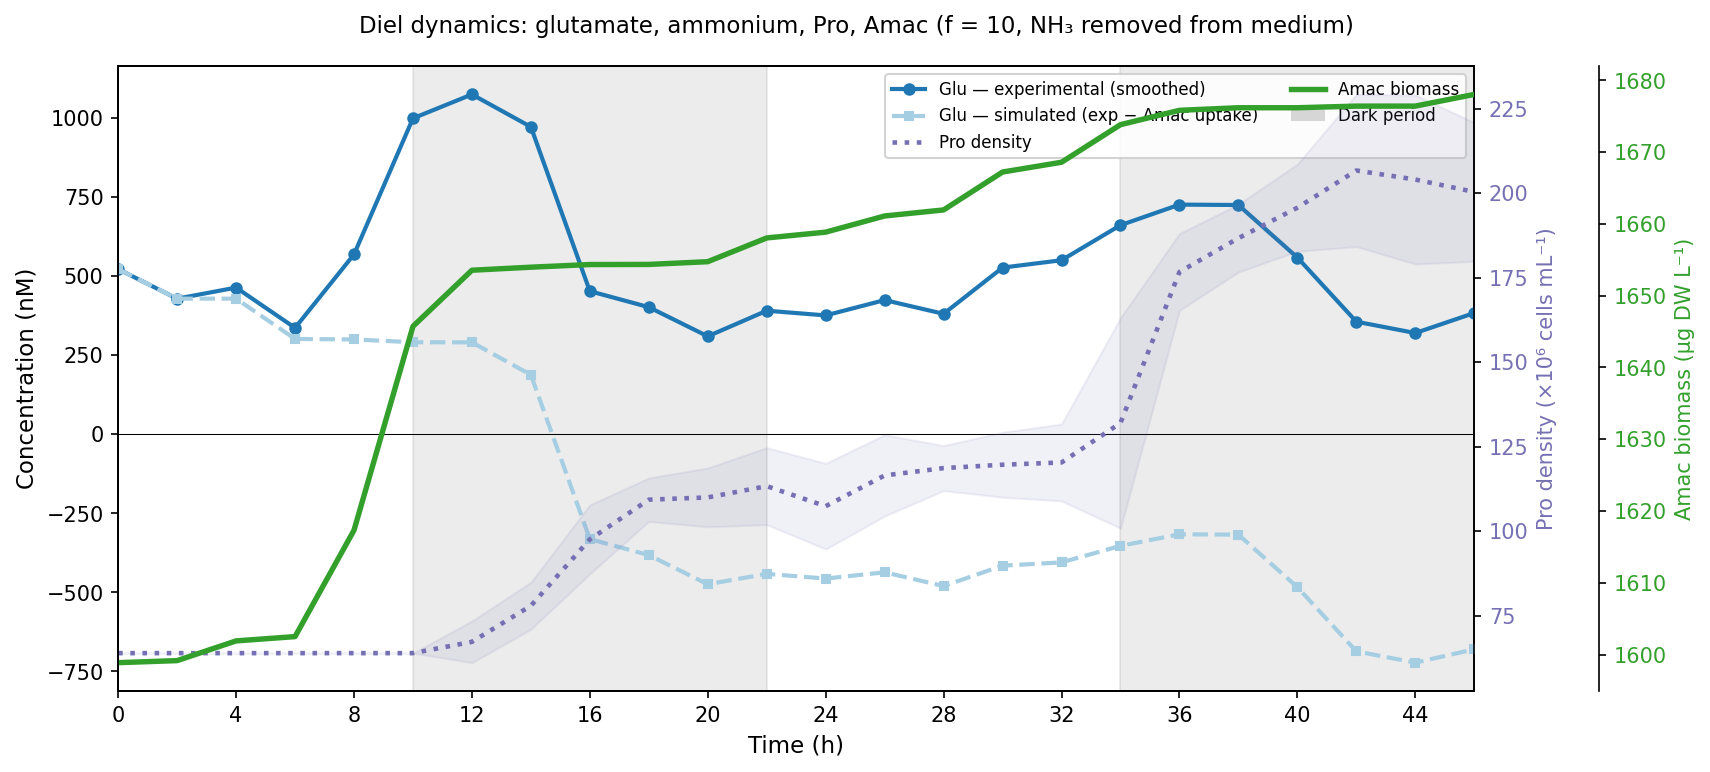
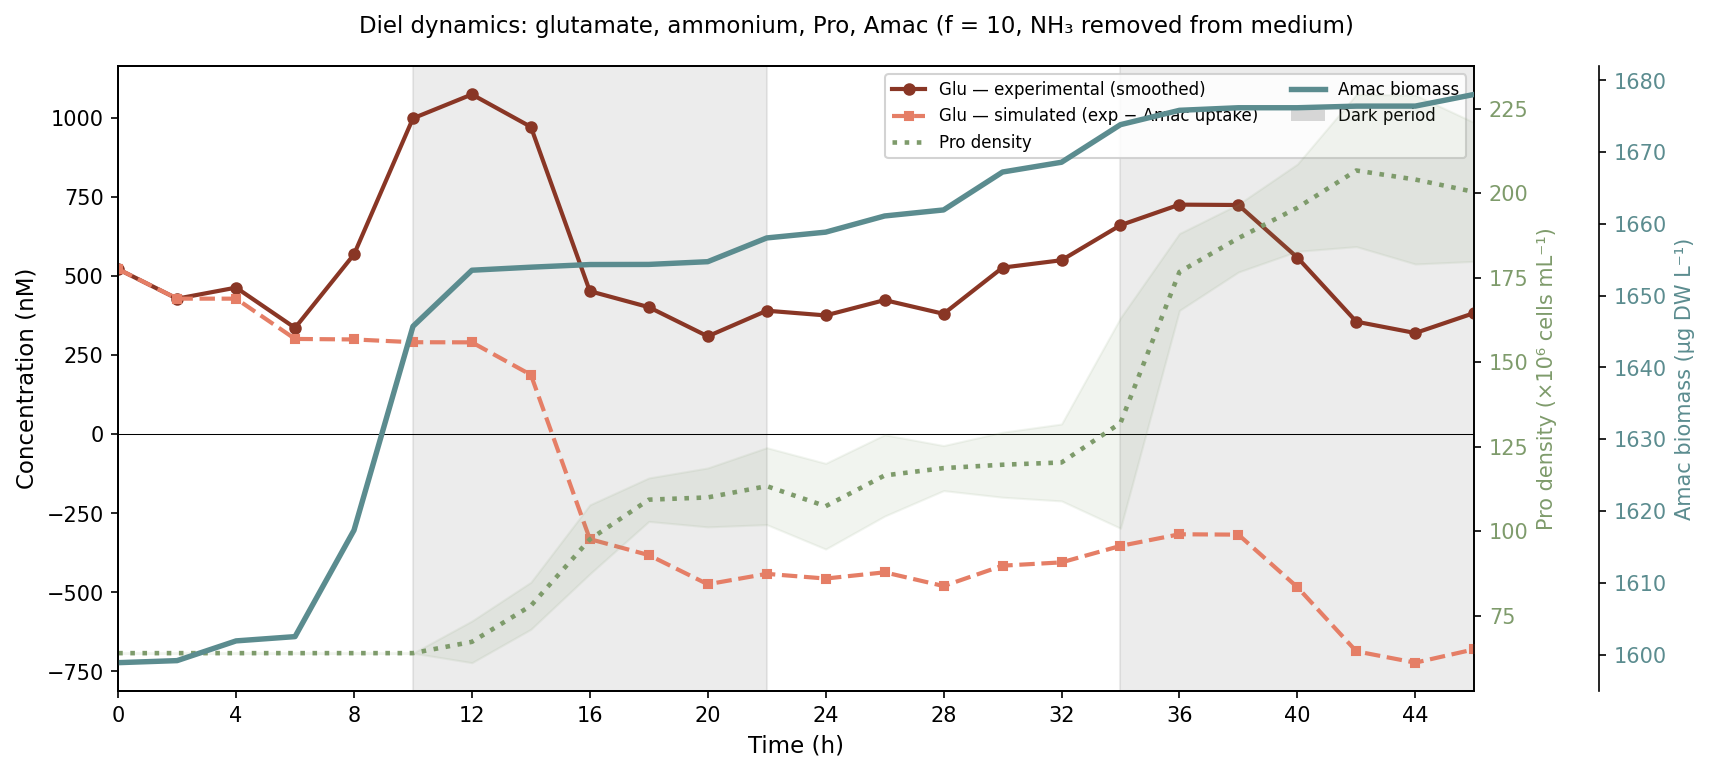
feat: use plot_styles colors

diff --git a/simulations/pro_exometabolites/plot_integrated_dynamics.py b/simulations/pro_exometabolites/plot_integrated_dynamics.py
@@ -33,6 +33,7 @@ secretion). Starts from 0 nM (BASAL has NH3 removed in the simulation).
 """
 
 from pathlib import Path
+import sys
 
 import matplotlib.pyplot as plt
 import numpy as np
@@ -41,10 +42,15 @@ import pandas as pd
 # ── Paths and parameters ────────────────────────────────────────────────────────
 
 SCRIPT_DIR = Path(__file__).parent
+REPO_ROOT = SCRIPT_DIR.parents[1]
 RESULTS_DIR = SCRIPT_DIR / "results"
 DATA_DIR = SCRIPT_DIR / "data"
 FIG_DIR = SCRIPT_DIR / "figs"
 FIG_DIR.mkdir(exist_ok=True)
+
+# Import plot_styles.py from the root of the repo
+sys.path.append(str(REPO_ROOT))
+from plot_styles import summer_colors
 
 F_PLOT = 10.0
 ALT_DW_G = 2.5e-13  # g/cell
@@ -167,11 +173,11 @@ def main() -> None:
     shade_dark(ax1)
     ax1.axhline(0, color="black", lw=0.5, zorder=1)
 
-    c_glu_exp = "#1f78b4"  # blue (experimental)
-    c_glu_sim = "#a6cee3"  # light blue (simulated)
-    c_nh4 = "#e31a1c"  # red (NH4)
-    c_pro = "#7570b3"  # purple (Pro)
-    c_amac = "#33a02c"  # green (Amac)
+    c_glu_exp = summer_colors["dark_pink"]
+    c_glu_sim = summer_colors["pink"]
+    c_nh4 = summer_colors["yellow"]
+    c_pro = summer_colors["green"]
+    c_amac = summer_colors["teal"]
 
     ax1.plot(
         times,
